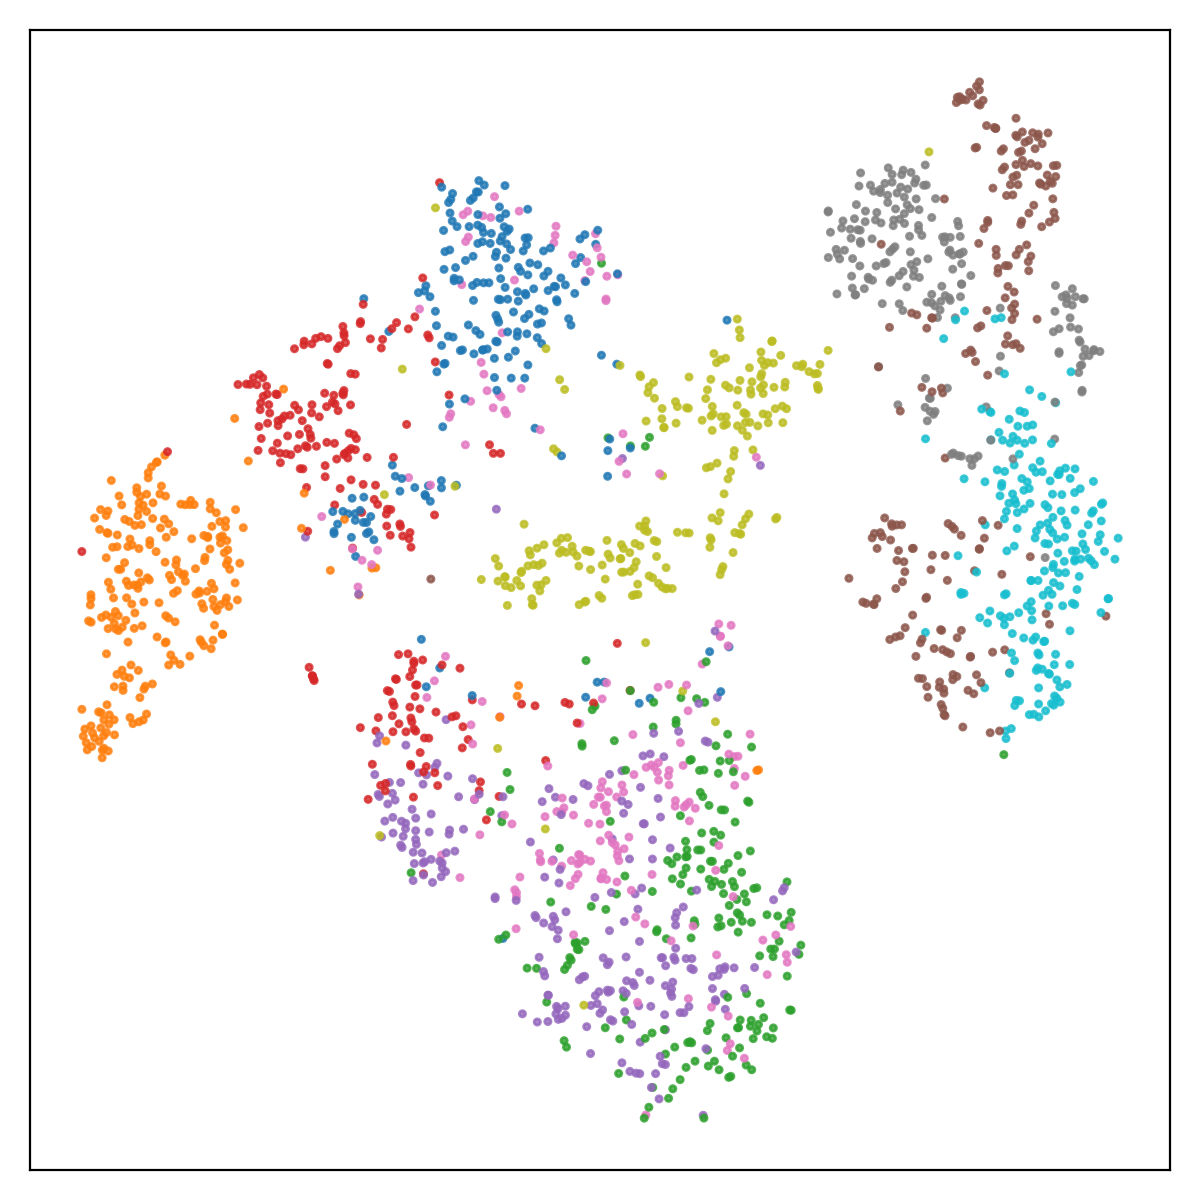
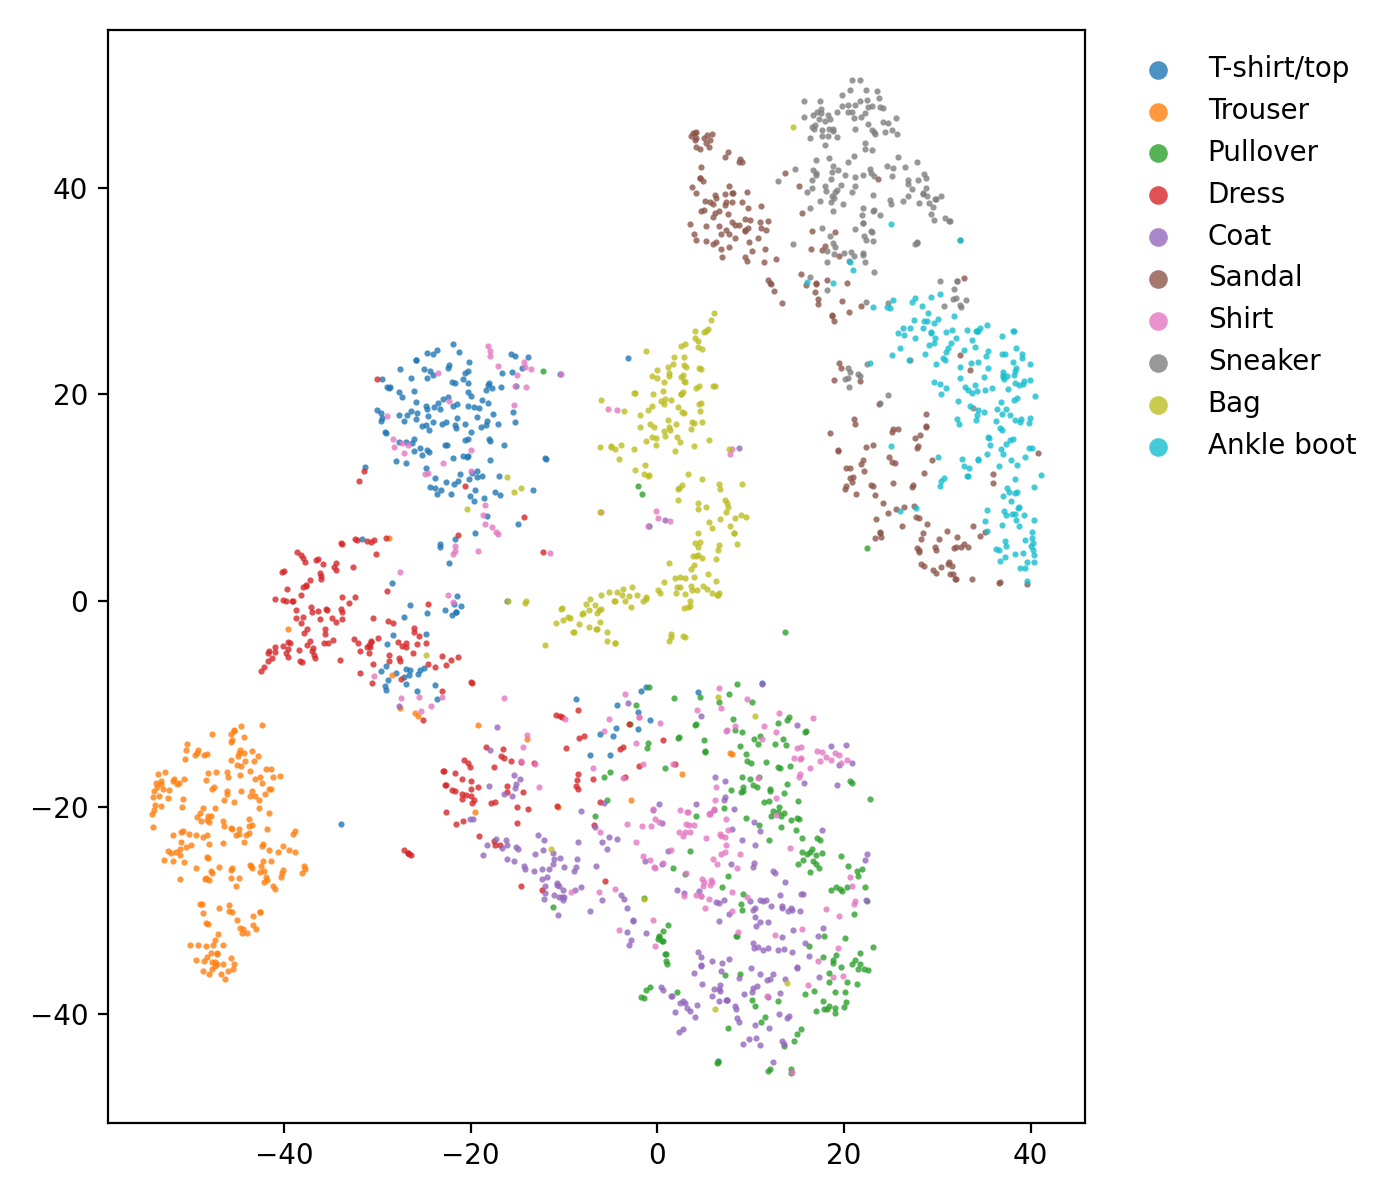
paar optimierungen

Changed region(s): [[0.0, 0.0, 0.9867, 0.9867], [0.0308, 0.0, 0.0617, 0.0308]]

diff --git a/vae.py b/vae.py
@@ -1,7 +1,7 @@
 import os
 import random
 from datetime import datetime
-from typing import Tuple, List
+from typing import Tuple
 
 import numpy as np
 import torch
@@ -12,11 +12,11 @@ from torchvision import datasets, transforms, utils as vutils
 import config
 from tqdm.auto import tqdm
 import matplotlib.pyplot as plt
-from sklearn.manifold import TSNE, trustworthiness
+from sklearn.manifold import TSNE
 
 
 def set_global_seed(seed: int) -> None:
-    """Set seeds across Python, NumPy, and PyTorch for reproducibility."""
+    """Set seeds across Python, NumPy, and PyTorch for reproducibility"""
     random.seed(seed)
     np.random.seed(seed)
     torch.manual_seed(seed)
@@ -24,7 +24,7 @@ def set_global_seed(seed: int) -> None:
 
 
 class Encoder(nn.Module):
-    """Conv encoder mapping 28x28 grayscale to latent mean and log-variance."""
+    """Conv encoder mapping 28x28 grayscale to latent mean and log-variance"""
     def __init__(self, latent_dim: int):
         super().__init__()
         # Two strided conv layers downsample 28→14→7 spatially
@@ -37,7 +37,7 @@ class Encoder(nn.Module):
 
         self.flatten = nn.Flatten()
         
-        # Map the 7×7×64 tensor to latent parameters μ and log variance
+        # Map the 7×7×64 tensor to latent parameters mu and log variance
         feat_dim = 64 * 7 * 7
         self.fc_mu = nn.Linear(feat_dim, latent_dim)
         self.fc_logvar = nn.Linear(feat_dim, latent_dim)
@@ -51,7 +51,7 @@ class Encoder(nn.Module):
 
 
 class Decoder(nn.Module):
-    """Conv decoder mapping latent vectors back to 28x28 images."""
+    """Conv decoder mapping latent vectors back to 28x28 images"""
     def __init__(self, latent_dim: int):
         super().__init__()
 
@@ -75,7 +75,7 @@ class Decoder(nn.Module):
 
 
 class VAE(nn.Module):
-    """Variational Autoencoder with reparameterization trick."""
+    """Variational Autoencoder with reparameterization trick"""
     def __init__(self, latent_dim: int):
         super().__init__()
         self.encoder = Encoder(latent_dim)
@@ -83,12 +83,12 @@ class VAE(nn.Module):
 
     @staticmethod
     def reparameterize(mu: torch.Tensor, logvar: torch.Tensor) -> torch.Tensor:
-        """Sample latent z via z = mu + std * eps."""
+        """Sample latent z via z = mu + std * eps"""
         # Convert log variance to standard deviation
         std = torch.exp(0.5 * logvar)
-        # Sample noise ε ~ N(0, I) with same shape as std
+        # Sample noise epsilon N(0, I) with same shape as std
         eps = torch.randn_like(std)
-        # Reparameterization trick enables gradients to flow through μ, σ
+        # Reparameterization trick enables gradients to flow through mu and sigma
         return mu + eps * std
 
     def forward(self, x: torch.Tensor) -> Tuple[torch.Tensor, torch.Tensor, torch.Tensor, torch.Tensor]:
@@ -99,18 +99,18 @@ class VAE(nn.Module):
 
 
 def vae_loss(x: torch.Tensor, x_hat: torch.Tensor, mu: torch.Tensor, logvar: torch.Tensor, beta: float) -> Tuple[torch.Tensor, torch.Tensor, torch.Tensor]:
-    """VAE loss equals reconstruction BCE plus beta times KL divergence."""
+    """VAE loss equals reconstruction BCE plus beta times KL divergence"""
     # The reconstruction term sums over pixels then averages over the batch for stability
     bce = F.binary_cross_entropy(x_hat, x, reduction="sum") / x.size(0)
     # The KL divergence uses the closed form for N of mu and sigma squared versus a standard normal. It is averaged per sample
     kld = -0.5 * torch.sum(1 + logvar - mu.pow(2) - logvar.exp()) / x.size(0)
-    # β scales disentanglement pressure (β=1 standard VAE, β>1 β-VAE)
+    # beta scales disentanglement pressure (beta=1 standard VAE, beta>1 beta-VAE)
     total = bce + beta * kld
     return total, bce, kld
 
 
 def get_dataloaders(dataset_name: str, data_dir: str, batch_size: int, seed: int, num_workers: int = 2) -> Tuple[DataLoader, DataLoader]:
-    """Load the dataset and create a fixed 90 10 train validation split."""
+    """Load the dataset and create a fixed 90 10 train validation split"""
     # Convert PIL images to tensors in the range 0 to 1
     transform = transforms.ToTensor()
     if dataset_name.lower() == "fashion":
@@ -129,7 +129,7 @@ def get_dataloaders(dataset_name: str, data_dir: str, batch_size: int, seed: int
     train_size = len(full_train) - val_size
     train, val = random_split(full_train, [train_size, val_size], generator=generator)
 
-    # Build DataLoader kwargs to enable performance options
+    # Build DataLoader
     loader_kwargs = dict(
         batch_size=batch_size,
         num_workers=num_workers,
@@ -143,12 +143,13 @@ def get_dataloaders(dataset_name: str, data_dir: str, batch_size: int, seed: int
 
     train_loader = DataLoader(train, shuffle=True, **loader_kwargs)
     val_loader = DataLoader(val, shuffle=False, **loader_kwargs)
+
     return train_loader, val_loader
 
 
 @torch.no_grad()
 def evaluate(model: VAE, loader: DataLoader, device: torch.device, beta: float) -> Tuple[float, float, float]:
-    """Compute mean total, BCE, and KL losses on a loader."""
+    """Compute mean total, BCE, and KL losses on a loader"""
     # Switch to evaluation mode. Disable updates in dropout and batch normalization
     model.eval()
     total_loss, total_bce, total_kld, n = 0.0, 0.0, 0.0, 0
@@ -175,7 +176,7 @@ def evaluate(model: VAE, loader: DataLoader, device: torch.device, beta: float) 
 
 
 def train(model: VAE, train_loader: DataLoader, val_loader: DataLoader, device: torch.device, epochs: int, beta: float, lr: float, patience: int) -> Tuple[VAE, dict]:
-    """Train with Adam. Track history and apply early stopping."""
+    """Train with Adam. Track history and apply early stopping"""
 
     # Adam optimizer
     optimizer = torch.optim.Adam(model.parameters(), lr=lr)
@@ -241,26 +242,25 @@ def train(model: VAE, train_loader: DataLoader, val_loader: DataLoader, device: 
 @torch.no_grad()
 def save_reconstructions(model: VAE, loader: DataLoader, device: torch.device,
                          out_dir: str, tag: str, max_images: int = 64) -> None:
-    """Speichere (1) Original-Grid, (2) Rekonstruktions-Grid und (3) beide Grids nebeneinander."""
+    """Save Originalgrid, reconstructiongrid and both side by side"""
     model.eval()
 
-    # Erstes Val-Batch
+    # First Val-Batch
     x, _ = next(iter(loader))
-    x = x.to(device, non_blocking=getattr(config, "non_blocking", True))[:max_images]
+    x = x.to(device, non_blocking=True)[:max_images]
     x_hat, _, _, _ = model(x)
 
-    # Gleiche Grid-Geometrie (nrow/padding), damit H/W identisch sind
+    # Same Gridgeometry (nrow/padding), so H/W are identical
     nrow = int(max_images ** 0.5)
     grid_true = vutils.make_grid(x.cpu(),     nrow=nrow, padding=2)
     grid_reco = vutils.make_grid(x_hat.cpu(), nrow=nrow, padding=2)
 
-    # Optional: separat speichern
     vutils.save_image(grid_true, os.path.join(out_dir, f"{tag}_orig_grid.png"))
     vutils.save_image(grid_reco, os.path.join(out_dir, f"{tag}_reco_grid.png"))
 
-    # Beide Grids in EIN Bild: horizontal konkatenieren + 10px Weißraum als Trenner
+    # turn both images into one
     C, H, W = grid_true.shape
-    sep = torch.ones((C, H, 10))  # weißer Balken
+    sep = torch.ones((C, H, 10))
     side_by_side = torch.cat([grid_true, sep, grid_reco], dim=2)
 
     vutils.save_image(side_by_side, os.path.join(out_dir, f"{tag}_orig_vs_reco_grids.png"))
@@ -268,13 +268,13 @@ def save_reconstructions(model: VAE, loader: DataLoader, device: torch.device,
 
 @torch.no_grad()
 def save_interpolations(model: VAE, loader: DataLoader, device: torch.device, out_dir: str, tag: str, steps: int = 8) -> None:
-    """Decode linear interpolations between two latent codes to show smooth transitions."""
+    """Decode linear interpolations between two latent codes to show smooth transitions"""
     model.eval()
 
-    # Pick two validation images and encode them to latent means. This is deterministic
+    # Pick two validation images and encode them to latent means
     x, _ = next(iter(loader))
-    x1 = x[:1].to(device, non_blocking=getattr(config, "non_blocking", True))
-    x2 = x[1:2].to(device, non_blocking=getattr(config, "non_blocking", True))
+    x1 = x[:1].to(device, non_blocking=True)
+    x2 = x[1:2].to(device, non_blocking=True)
     mu1, logvar1 = model.encoder(x1)
     mu2, logvar2 = model.encoder(x2)
     z1 = mu1
@@ -288,17 +288,8 @@ def save_interpolations(model: VAE, loader: DataLoader, device: torch.device, ou
     vutils.save_image(grid, os.path.join(out_dir, f"{tag}_interp.png"))
 
 
-def save_tsne(
-    model: VAE,
-    loader: DataLoader,
-    device: torch.device,
-    out_dir: str,
-    tag: str,
-    max_points: int = 2000,
-    show_legend: bool = True,
-    annotate_centroids: bool = False,
-) -> None:
-    """Project latent means to 2D using t-SNE with legend and annotations."""
+def save_tsne(model: VAE, loader: DataLoader, device: torch.device, out_dir: str, tag: str, max_points: int = 2000, show_legend: bool = True, annotate_centroids: bool = False) -> None:
+    """Project latent means to 2D using t-SNE with legend and annotations"""
 
     model.eval()
     zs, ys = [], []
@@ -307,7 +298,7 @@ def save_tsne(
     with torch.no_grad():
         seen = 0
         for x, y in loader:
-            x = x.to(device, non_blocking=getattr(config, "non_blocking", True))
+            x = x.to(device, non_blocking=True)
             mu, _ = model.encoder(x)
             zs.append(mu.cpu())
             ys.append(y)
@@ -318,43 +309,28 @@ def save_tsne(
     Z = torch.cat(zs, dim=0).numpy()
     Y = torch.cat(ys, dim=0).numpy()
 
-    # t-SNE: pca init, fixed seed for Reproduzierbarkeit
-    tsne = TSNE(n_components=2, init="pca", learning_rate="auto",
-                perplexity=30, random_state=0)
+    # t-SNE with pca init, fixed seed for reproducibility
+    tsne = TSNE(n_components=2, init="pca", learning_rate="auto", perplexity=30, random_state=0)
     Z2 = tsne.fit_transform(Z)
 
-    # Klassennamen aus dem Basis-Dataset ziehen (falls vorhanden)
-    base_ds = loader.dataset
-    if hasattr(base_ds, "dataset"):  # Subset -> echtes Dataset
-        base_ds = base_ds.dataset
-    class_names = getattr(base_ds, "classes", None)
+    # Extract class names from dataset
+    base_ds = loader.dataset.dataset
+    class_names = base_ds.classes
 
-    # Farben pro Klasse stabil aus tab10
+    # Colorcoding
     classes = np.unique(Y)
     num_classes = int(classes.max()) + 1 if class_names is None else len(class_names)
-    cmap = plt.cm.get_cmap("tab10", num_classes)
+    cmap = plt.get_cmap("tab10", num_classes)
 
-    plt.figure(figsize=(6.5, 6.0))
+    plt.figure(figsize=(7, 6))
     for c in classes:
         mask = (Y == c)
         label = (class_names[c] if class_names and c < len(class_names) else str(int(c)))
-        plt.scatter(
-            Z2[mask, 0], Z2[mask, 1],
-            s=5, alpha=0.8,
-            label=label,
-            color=cmap(int(c)),
-            linewidths=0
-        )
+        plt.scatter(Z2[mask, 0], Z2[mask, 1], s=5, alpha=0.8, label=label, color=cmap(int(c)), linewidths=0)
         if annotate_centroids and mask.any():
             m = Z2[mask].mean(axis=0)
-            plt.text(m[0], m[1], label, fontsize=8, ha="center", va="center",
-                     bbox=dict(boxstyle="round,pad=0.2", fc="white", ec="none", alpha=0.7))
+            plt.text(m[0], m[1], label, fontsize=8, ha="center", va="center", bbox=dict(boxstyle="round,pad=0.2", fc="white", ec="none", alpha=0.7))
 
-    # Quantitative Einordnung
-    tw = float(trustworthiness(Z, Z2, n_neighbors=5))
-    plt.title(f"{tag}\n(t-SNE: lokale Struktur; Trustworthiness@5={tw:.3f})")
-    plt.xlabel("t-SNE dimension 1 (arbitrary)")
-    plt.ylabel("t-SNE dimension 2 (arbitrary)")
     if show_legend:
         plt.legend(markerscale=3, frameon=False, bbox_to_anchor=(1.02, 1), loc="upper left")
     plt.tight_layout()
@@ -363,7 +339,7 @@ def save_tsne(
 
 
 def save_curves(history: dict, out_dir: str, tag: str) -> None:
-    """Save train/val curves (total loss and BCE) across epochs."""
+    """Save train/val curves (total loss and BCE) across epochs"""
     # Extract epoch wise metrics accumulated during training
     epochs = list(range(1, len(history.get("train", [])) + 1))
     if not epochs:
@@ -397,7 +373,7 @@ def save_curves(history: dict, out_dir: str, tag: str) -> None:
 
 
 def run(dataset: str, z_dim: int, beta: float, seed: int, epochs: int, batch_size: int, lr: float, patience: int, out_root: str, num_workers: int) -> Tuple[float, float]:
-    # Automatically select the GPU when available. Otherwise fall back to the CPU
+    # Automatically select the GPU when available, otherwise fall back to the CPU
     device = torch.device("cuda" if torch.cuda.is_available() else "cpu")
     timestamp = datetime.now().strftime("%Y%m%d-%H%M%S")
     tag_base = f"{dataset}_z{z_dim}_beta{int(beta)}_{timestamp}"
@@ -409,11 +385,11 @@ def run(dataset: str, z_dim: int, beta: float, seed: int, epochs: int, batch_siz
     model = VAE(z_dim).to(device)
     model, history = train(model, train_loader, val_loader, device, epochs, beta, lr, patience)
 
-    # Re-evaluate to be safe after loading best state
+    # Reevaluate to be safe after loading best state
     final_loss, final_bce, _ = evaluate(model, val_loader, device, beta)
 
-    # Save qualitative and quantitative diagnostics
-    run_tag = f"{tag_base}_run0"
+    # Save qualitative and quantitative results
+    run_tag = tag_base
     save_reconstructions(model, val_loader, device, out_dir, run_tag)
     save_interpolations(model, val_loader, device, out_dir, run_tag)
     save_tsne(model, val_loader, device, out_dir, run_tag)

diff --git a/README.md b/README.md
@@ -59,7 +59,7 @@ Beispielgrafiken (entsprechen den automatisch erzeugten Dateien mit der Konfigur
 
 **Originale vs. Rekonstruktion**
 
-  ![Originale](resources/original-reconstruction.png)
+  ![Originale](resources/original_vs_reconstruction.png)
 
 **Latente Interpolation**
 
